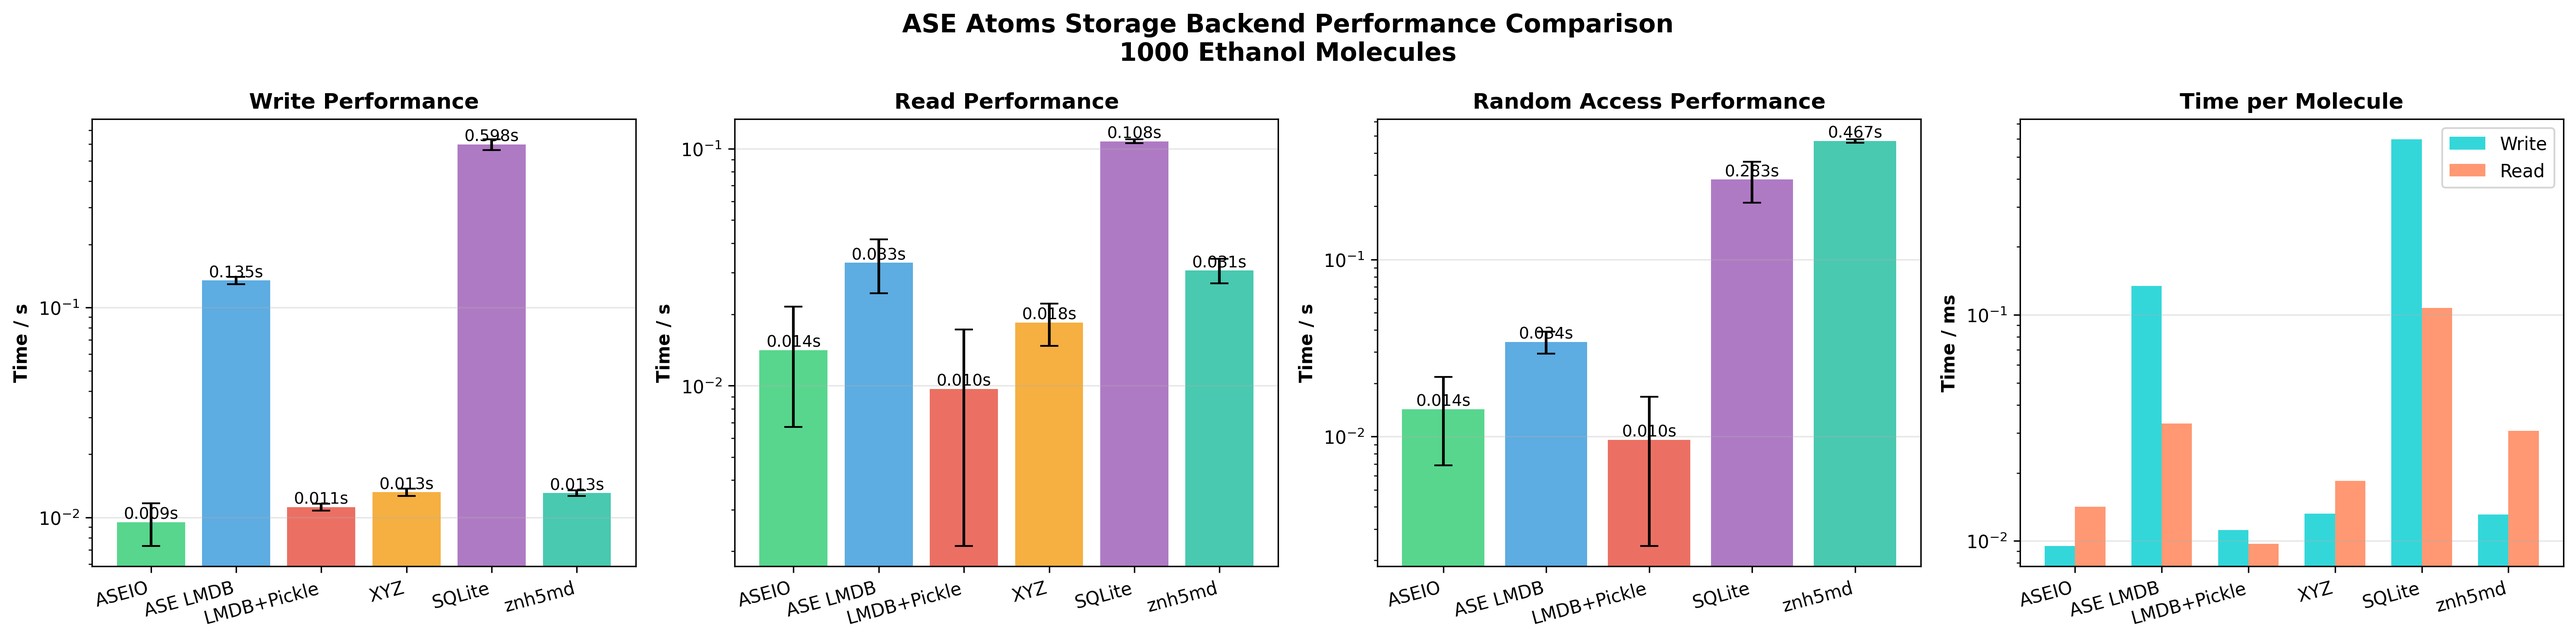
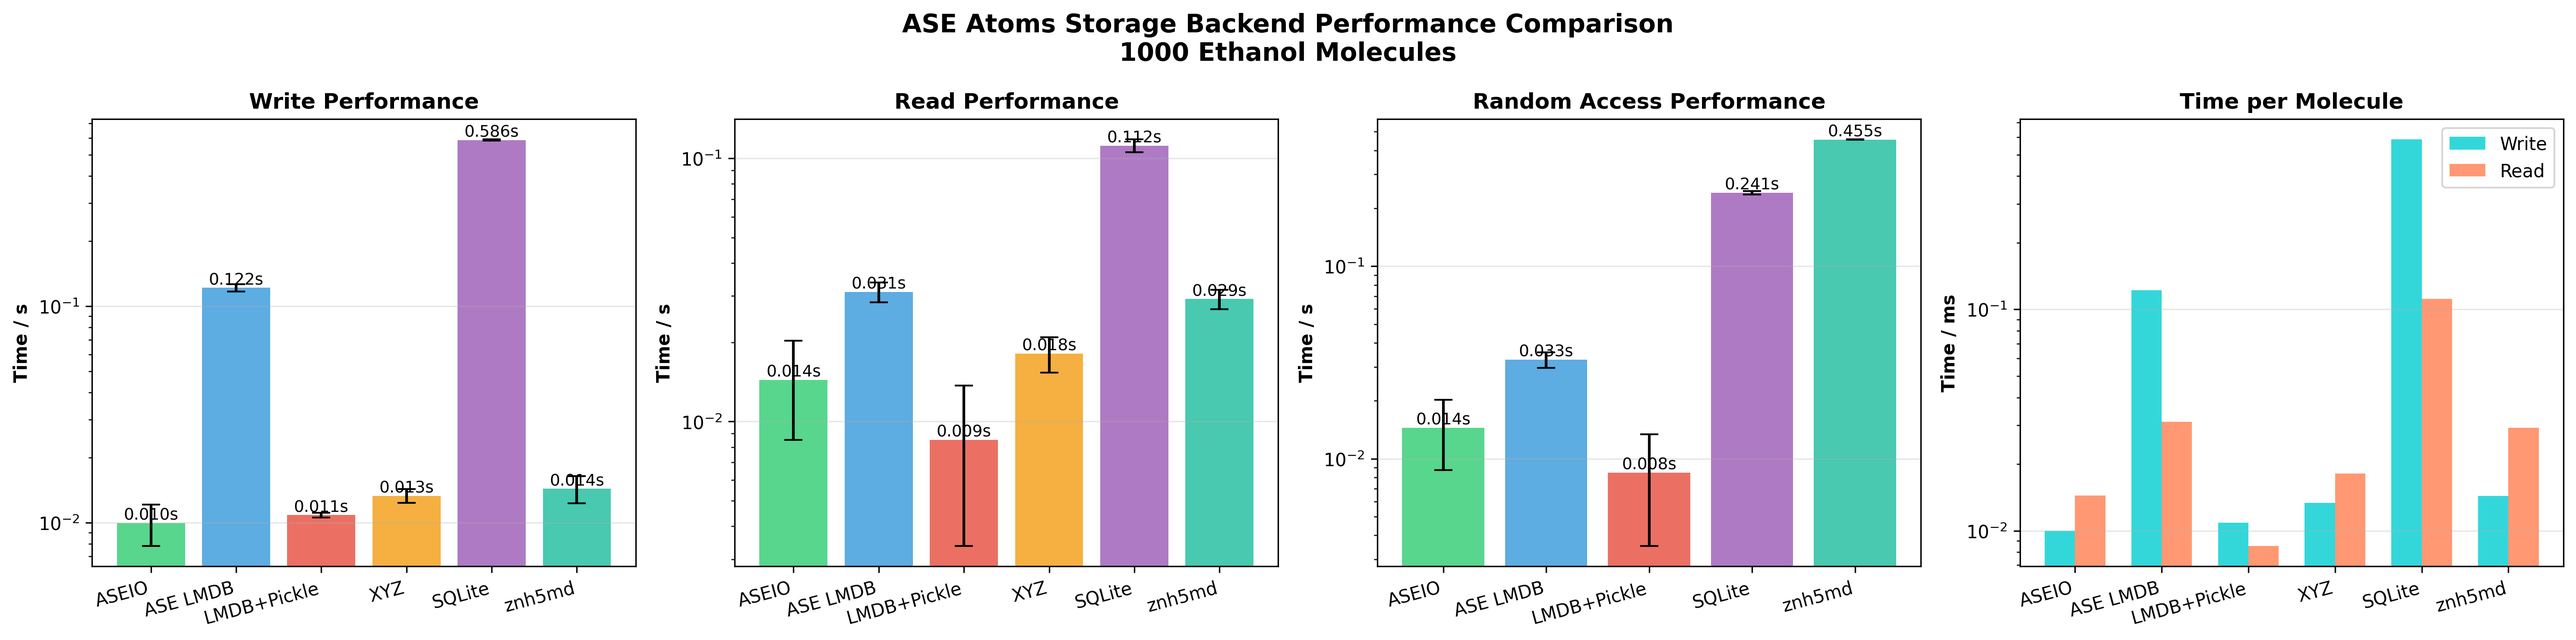
feat: streaming iteration, key validation, and updated README
- Add iter_rows() to ReadableBackend for streaming row access
- LMDB override streams within a single read transaction
- RowView.__iter__ now streams (safe for TB-scale datasets)
- Add RowView.chunked() for batched throughput iteration
- Add ASEIO._validate_keys() enforcing calc.*/info.*/arrays.* namespaces
- Update README with new API (views, column access, chunked, readonly)
- Regenerate benchmark_comparison.png

diff --git a/src/asebytes/io.py b/src/asebytes/io.py
@@ -1,7 +1,7 @@
 from __future__ import annotations
 
-from collections.abc import MutableSequence
-from typing import Any, Iterator, overload
+from collections.abc import Iterator, MutableSequence
+from typing import Any, overload
 
 import ase
 import numpy as np
@@ -59,6 +59,11 @@ class ASEIO(MutableSequence):
         self, indices: list[int], keys: list[str] | None = None
     ) -> list[dict[str, Any]]:
         return self._backend.read_rows(indices, keys)
+
+    def _iter_rows(
+        self, indices: list[int], keys: list[str] | None = None
+    ) -> Iterator[dict[str, Any]]:
+        return self._backend.iter_rows(indices, keys)
 
     def _read_column(self, key: str, indices: list[int]) -> list[Any]:
         return self._backend.read_column(key, indices)
@@ -158,6 +163,22 @@ class ASEIO(MutableSequence):
         row = self._backend.read_row(index, str_keys)
         return dict_to_atoms(row)
 
+    _VALID_PREFIXES = ("arrays.", "info.", "calc.")
+    _VALID_TOP_LEVEL = ("cell", "pbc", "constraints")
+
+    def _validate_keys(self, data: dict[str, Any]) -> None:
+        """Validate that all keys follow the namespace convention."""
+        for key in data:
+            if key in self._VALID_TOP_LEVEL:
+                continue
+            if any(key.startswith(p) for p in self._VALID_PREFIXES):
+                continue
+            raise ValueError(
+                f"Invalid key {key!r}. Keys must start with "
+                f"{', '.join(self._VALID_PREFIXES)} or be one of "
+                f"{', '.join(self._VALID_TOP_LEVEL)}."
+            )
+
     def update(
         self,
         index: int,
@@ -167,15 +188,16 @@ class ASEIO(MutableSequence):
         arrays: dict[str, np.ndarray] | None = None,
         calc: dict[str, Any] | None = None,
     ) -> None:
-        """Update specific keys at index (read-modify-write).
+        """Update specific keys at index.
 
-        Supports both new flat-dict API and legacy keyword API.
+        Keys must follow the namespace convention: ``calc.*``, ``info.*``,
+        ``arrays.*``, or top-level keys (``cell``, ``pbc``, ``constraints``).
 
-        New API::
+        Flat-dict API::
 
             db.update(i, {"calc.energy": -10.5, "info.tag": "done"})
 
-        Legacy API (still supported)::
+        Keyword API::
 
             db.update(i, info={"tag": "done"}, calc={"energy": -10.5})
         """
@@ -199,4 +221,5 @@ class ASEIO(MutableSequence):
         if not flat_data:
             return
 
+        self._validate_keys(flat_data)
         self._backend.update_row(index, flat_data)

diff --git a/src/asebytes/_views.py b/src/asebytes/_views.py
@@ -11,6 +11,7 @@ class ViewParent(Protocol):
     def __len__(self) -> int: ...
     def _read_row(self, index: int, keys: list[str] | None = None) -> dict[str, Any]: ...
     def _read_rows(self, indices: list[int], keys: list[str] | None = None) -> list[dict[str, Any]]: ...
+    def _iter_rows(self, indices: list[int], keys: list[str] | None = None) -> Iterator[dict[str, Any]]: ...
     def _read_column(self, key: str, indices: list[int]) -> list[Any]: ...
     def _build_atoms(self, row: dict[str, Any]) -> ase.Atoms: ...
 
@@ -88,13 +89,27 @@ class RowView:
         raise TypeError(f"Unsupported key type: {type(key)}")
 
     def __iter__(self) -> Iterator[ase.Atoms]:
-        # Batch read via read_rows to avoid N+1 query problem
-        for row in self._parent._read_rows(self._indices):
+        """Stream rows one at a time (safe for large datasets)."""
+        for row in self._parent._iter_rows(self._indices):
             yield self._parent._build_atoms(row)
 
+    def chunked(self, chunk_size: int = 1000) -> Iterator[ase.Atoms]:
+        """Iterate in chunks for throughput.
+
+        Loads ``chunk_size`` rows at a time into memory, yielding
+        one Atoms object per iteration. I/O happens at chunk boundaries.
+        """
+        for start in range(0, len(self._indices), chunk_size):
+            chunk = self._indices[start : start + chunk_size]
+            for row in self._parent._read_rows(chunk):
+                yield self._parent._build_atoms(row)
+
     def to_list(self) -> list[ase.Atoms]:
-        """Materialize as list of Atoms objects."""
-        return list(self)
+        """Materialize all rows into memory."""
+        return [
+            self._parent._build_atoms(row)
+            for row in self._parent._read_rows(self._indices)
+        ]
 
     def __repr__(self) -> str:
         return f"RowView(len={len(self)})"

diff --git a/src/asebytes/lmdb/_backend.py b/src/asebytes/lmdb/_backend.py
@@ -1,5 +1,6 @@
 from __future__ import annotations
 
+from collections.abc import Iterator
 from typing import Any
 
 import msgpack
@@ -60,6 +61,17 @@ class LMDBReadOnlyBackend(ReadableBackend):
         byte_keys = [k.encode() for k in keys] if keys is not None else None
         raw = self._store.get(index, keys=byte_keys)
         return self._deserialize_row(raw)
+
+    def iter_rows(
+        self, indices: list[int], keys: list[str] | None = None
+    ) -> Iterator[dict[str, Any]]:
+        """Stream rows within a single LMDB read transaction."""
+        byte_keys = [k.encode() for k in keys] if keys is not None else None
+        with self._store.env.begin() as txn:
+            for i in indices:
+                yield self._deserialize_row(
+                    self._store.get_with_txn(txn, i, byte_keys)
+                )
 
     def read_rows(
         self, indices: list[int], keys: list[str] | None = None

diff --git a/src/asebytes/_protocols.py b/src/asebytes/_protocols.py
@@ -1,6 +1,7 @@
 from __future__ import annotations
 
 from abc import ABC, abstractmethod
+from collections.abc import Iterator
 from typing import Any
 
 
@@ -43,6 +44,16 @@ class ReadableBackend(ABC):
     ) -> list[dict[str, Any]]:
         """Read multiple rows. Default: loops over read_row."""
         return [self.read_row(i, keys) for i in indices]
+
+    def iter_rows(
+        self, indices: list[int], keys: list[str] | None = None
+    ) -> Iterator[dict[str, Any]]:
+        """Yield rows one at a time. Default: calls read_row per index.
+
+        Override for transaction-scoped streaming (e.g. single LMDB read txn).
+        """
+        for i in indices:
+            yield self.read_row(i, keys)
 
     def read_column(
         self, key: str, indices: list[int] | None = None

diff --git a/tests/test_views.py b/tests/test_views.py
@@ -29,6 +29,10 @@ class MockParent:
     ) -> list[dict[str, Any]]:
         return [self._read_row(i, keys) for i in indices]
 
+    def _iter_rows(self, indices: list[int], keys: list[str] | None = None):
+        for i in indices:
+            yield self._read_row(i, keys)
+
     def _read_column(self, key: str, indices: list[int]) -> list[Any]:
         return [self._rows[i][key] for i in indices]
 

diff --git a/README.md b/README.md
@@ -1,37 +1,76 @@
 # asebytes
 
-Efficient serialization and storage for ASE Atoms objects using LMDB.
+Efficient serialization and storage for ASE Atoms objects with pluggable backends and lazy column-oriented access.
 
 ## API
 
-- **`encode(atoms)`** - Encode an ASE Atoms object to a dict of bytes
-- **`decode(data)`** - Decode bytes back into an ASE Atoms object
-- **`BytesIO(file, prefix)`** - LMDB-backed list-like storage for bytes dictionaries
-- **`ASEIO(file, prefix)`** - LMDB-backed list-like storage for ASE Atoms objects
+### Storage
+
+- **`ASEIO(file)`** - Storage-agnostic mutable sequence for ASE Atoms objects
+- **`BytesIO(file, prefix)`** - Low-level LMDB-backed storage for bytes dictionaries
+
+### Serialization
+
+- **`encode(atoms)`** / **`decode(data)`** - Serialize/deserialize Atoms to/from bytes
+- **`atoms_to_dict(atoms)`** / **`dict_to_atoms(data)`** - Convert Atoms to/from logical dicts (no serialization, ~5x faster)
+
+### Backends
+
+- **`LMDBBackend(file)`** - Read-write LMDB backend
+- **`LMDBReadOnlyBackend(file)`** - Read-only LMDB backend
+- **`ReadableBackend`** / **`WritableBackend`** - Abstract base classes for custom backends
+
+### Views
+
+- **`RowView`** - Lazy view over a subset of rows, yields `ase.Atoms` on iteration
+- **`ColumnView`** - Lazy view over one or more columns, avoids constructing full Atoms objects
 
 ## Examples
 
 ```python
-from asebytes import ASEIO, BytesIO, encode, decode
+from asebytes import ASEIO
 import molify
 
-# Generate conformers from SMILES
-ethanol = molify.smiles2conformers("CCO", numConfs=100)
+ethanol = molify.smiles2conformers("CCO", numConfs=1000)
 
-# Serialize/deserialize single molecule
-data = encode(ethanol[0])
-atoms_restored = decode(data)
-
-# High-level: Store Atoms objects directly
+# Store Atoms objects
 db = ASEIO("conformers.lmdb")
-db.extend(ethanol)  # Add all conformers
-mol = db[0]         # Returns ase.Atoms
+db.extend(ethanol)
 
-# Low-level: BytesIO stores serialized data
-bytes_db = BytesIO("conformers.lmdb")
-bytes_db.append(encode(ethanol[0]))      # Manual serialization
-data = bytes_db[0]                       # Returns dict[bytes, bytes]
-mol = decode(data)                       # Manual deserialization
+# Integer indexing returns ase.Atoms
+mol = db[0]
 
-# ASEIO = BytesIO + automatic encode/decode
+# Slicing returns a lazy RowView
+view = db[5:10]       # no data loaded yet
+for atoms in view:    # streams one at a time
+    print(atoms)
+
+# Chunked iteration for throughput on large datasets
+for atoms in db[:].chunked(1000):  # loads 1000 rows at a time
+    process(atoms)
+
+# String indexing returns a lazy ColumnView
+energies = db["calc.energy"]          # single column
+energies_list = energies.to_list()    # materialize
+
+# Multi-column access
+cols = db[["calc.energy", "calc.forces"]]
+cols_dict = cols.to_dict()  # {"calc.energy": [...], "calc.forces": [...]}
+
+# Chaining: slice rows then select columns
+db[0:100]["calc.energy"].to_list()
+
+# Read-only access
+db_ro = ASEIO("conformers.lmdb", readonly=True)
+
+# Partial updates (only writes changed keys)
+# Keys must use namespaces: calc.*, info.*, arrays.*
+db.update(0, {"info.tag": "optimized"})
+db.update(0, calc={"energy": -10.5})
 ```
+
+## Benchmarks
+
+Performance comparison for 1000 ethanol molecules with calculator results:
+
+![Benchmark Comparison](benchmark_comparison.png)
